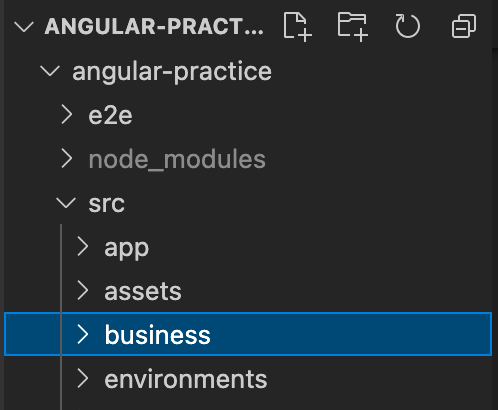
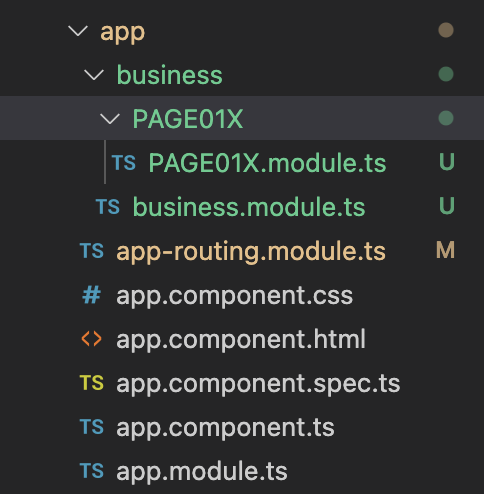
1

diff --git a/angular-practice/初始化项目.md b/angular-practice/初始化项目.md
@@ -53,45 +53,44 @@ ng serve
 
 # 制作主页
 
-Angular是单页面应用。可以这么理解，所以的操作和显示都在index.html。
+Angular是单页面应用，所有的操作和显示都在index.html。通过显示或隐藏特定组件来改变用户能看到的内容。画面之间的跳转，实质上是HTML页面内的内容替换。
 
 <div style="text-align:center"><img src="pictures/angular-index.png" width="200px"></div>
 
-通过显示或隐藏特定组件的显示部分来改变用户能看到的内容。画面之间的跳转，实质上是HTML页面内标签的替换。
 
-index.html文件内的标签\<app-root>指向app.component.html。
 
-所以app.component.html是用户看到的第一个画面，并且其一直显示。
+index.html内的\<app-root>\</app-root>会显示app.component.html的内容。即app.component.html是用户看到的第一个画面，并作为底层一直存在。
 
-一般会把app component设置为空白画面，仅用于预加载可在全局生效的功能。
-
-采用如下结构：
+一般会把app component设置为空白画面，仅用于预加载可在全局生效的功能，然后通过配置路由将初始画面导向page01：
 
 <div style="text-align:center"><img src="pictures/first-open.png" width="500px"></div>
 
-通过配置路由将初始画面导向page01。
 
->这样做另一个好处是，当未来想要更换初始画面时，不需要对app component再进行修改。
+这样做的好处是，当未来想要更换初始画面时，不需要对app component再进行修改。
 
-当然也有一些架构设计者会选择在app.component.html显示网站的header和sidebar。仅在content内进行内容替换。
+但是也有一些架构设计者会选择在app.component.html显示网站的header和sidebar等共通部件，仅在content中进行内容替换。
 
 具体如何设计要根据情况而定。
 
 ## 新建工程目录
 
-新建business文件夹用于存放工程的其它组件。使其和app组件分隔开，让目录更加清晰。
+为了工程的其它组件和app组件分隔开，让目录更加清晰。我新建了business文件夹用于存放。
 
 1. 新建“business”。
+2. 在里面新建PAGE01X文件夹用于存放第一套连续的画面。
 
 <img src="pictures/new-business.png" width="200px">
 
-2. 在里面新建PAGE01X文件夹用于存放第一套连续的画面，并新建business.module.ts和PAGE01X.module.ts。
-
-<img src="pictures/add-routes.png" width="200px">
-
-这两个配置文件用来配置路由和声明Angular API。
+可以看到除了新建文件夹，我还新建了两个module文件，分别是business.module.ts和PAGE01X.module.ts。它们是干什么用的呢？我会在下面说明。
 
 # Angular路由器
+
+module文件具有很多用途，但是最常见的用法是用于配置路由。
+
+在前面已经讲到Angular是一个单页面应用，页面的跳转实质上是组件的变换。但是如何让Angular知道按下某个按钮或触发某个事件时，可以显示正确的组件呢？这就需要在路由配置参数。
+
+## router-outlet
+
 
 
 
